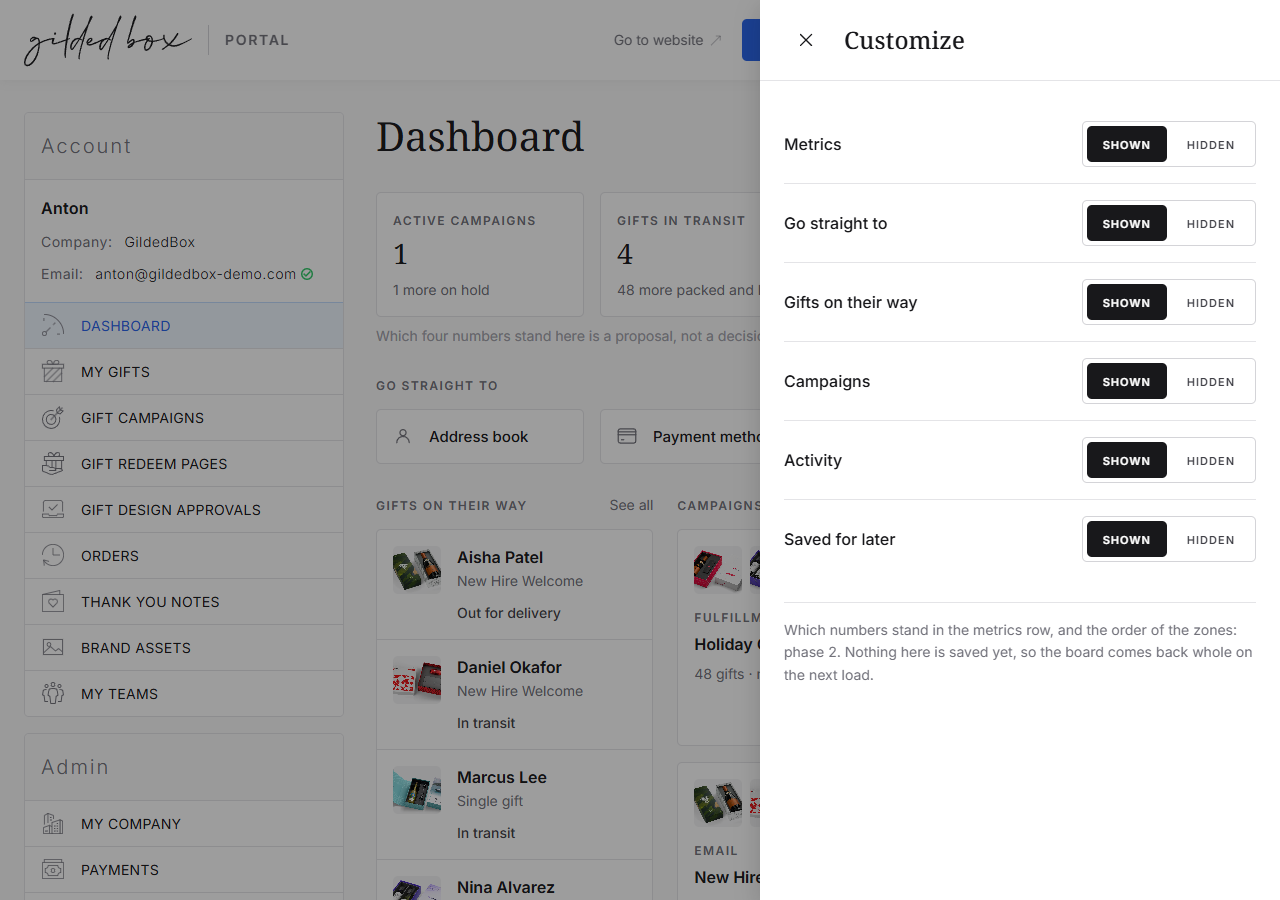
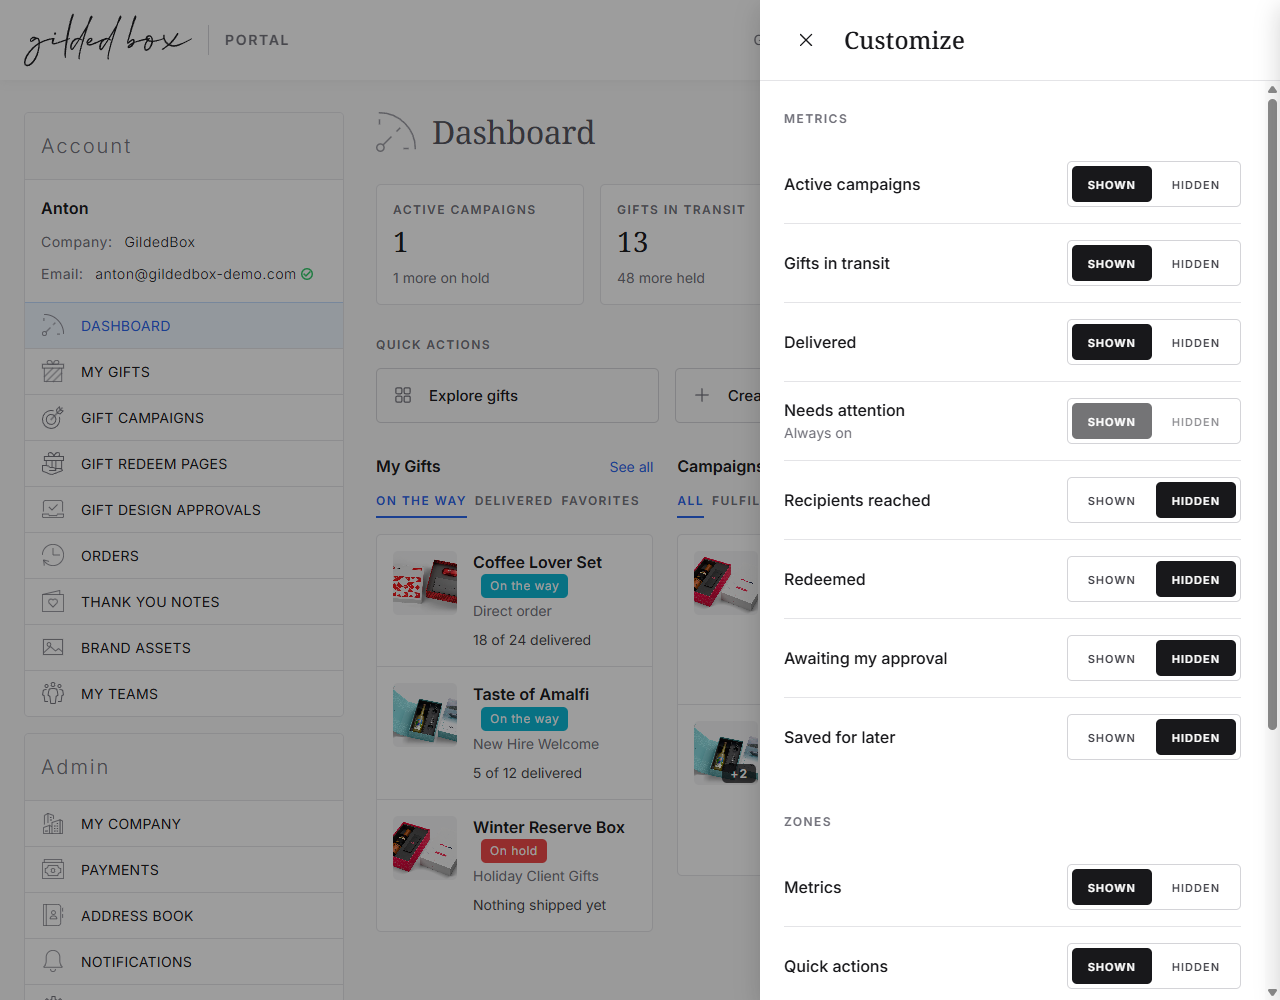
feat(portal): the metrics become a set you choose, and every switch on the page is finally visible
THE DEAD SWITCHES, AND THE ONE ROOT. Ton clicked the Customize
toggles and the tabs on the live build and nothing moved. Two causes,
both of the same family:

  [hidden] LOSES TO A display RULE, and it had bitten four times on
  this page: the bell's badge, the tab panels, the campaign rows and
  the feed events. Every one of them was hidden in the DOM and drawn
  on the screen, because the UA sheet's [hidden]{display:none} loses
  to any author rule of equal specificity, and every row here has
  one. The page now states it once, under its own roots, with the
  !important the UA sheet cannot carry.

  AND reflow() UNDID THE PERSON. It re-decides which columns exist by
  counting their rows; it ran when the fade finished, found the rows
  still in place and turned the column back on. A zone switched off
  by hand is marked at the moment of the switch, not after it, and
  reflow leaves that one alone.

THE LEAVING IS SEEN: a zone or a tile fades over --mo-small-out and
then leaves the layout, so the board re-splitting under an open
drawer is caught by the eye. Coming back is instant. The drawer is
520 on the right and the board stays visible beside it at 1280.

THE METRICS ARE A SET. The Customize drawer opens with a catalogue:
the four that stand today and four candidates out of the same demo
data, and turning one on puts its tile in the position the catalogue
gives it. Needs attention cannot be switched off, and the drawer says
[…]

diff --git a/live/portal-dashboard.html b/live/portal-dashboard.html
@@ -311,6 +311,19 @@ a.gbppd-more:hover, body.gb-demo a.gbppd-more:hover { color: var(--blue-700); te
 
    The tiles are doors all the same (each opens the drawer with the
    things it counted), so they keep the card's own hover. */
+/* FOUR POSITIONS, AND THE ROW WRAPS INTO MORE OF THEM. The metrics
+   are a SET now (Ton, 10.09): the catalogue in the Customize drawer
+   decides which tiles exist, and the row lays out whatever it is
+   given. Four fixed tracks rather than auto-fit on purpose: auto-fit
+   collapses the empty tracks, so a set of two would stretch each
+   tile across half the board and a number would look like a banner.
+   With fixed tracks two tiles stay tile-sized and six wrap into a
+   second row of the same width. Measured at 1280 and 360.
+
+   PLACEMENT IS AUTOMATIC: the order of the row is the order of the
+   catalogue, which is the order of the DOM. Dragging a tile by hand
+   is phase 2 and is not built, not drawn, and not mentioned on the
+   canvas or in the drawer. */
 .gbppd-stats {
   display: grid;
   gap: var(--space-16);
@@ -584,12 +597,30 @@ a.gbppd-door, body.gb-demo a.gbppd-door { color: var(--zinc-900); }
 .gbppd-tab[aria-selected="true"] { color: var(--blue-600); border-bottom-color: var(--blue-600); }
 
 .gbppd-rows { display: grid; }
-/* [hidden] LOSES TO A display RULE (the same trap the bell's badge
-   fell into, ловушка of this page's own head comment). A tab panel is
-   hidden by the attribute, and a display:grid on the same element
-   outranks the UA sheet, so all three panes stood open at once until
-   this line. Caught by looking at the frame, not by the console. */
-.gbppd-rows[hidden] { display: none; }
+/* [hidden] LOSES TO A display RULE, AND IT HAS NOW BITTEN FOUR TIMES
+   ON ONE PAGE: the bell's badge (display:grid), the tab panels
+   (display:grid), the campaign rows and the feed events of the
+   filters (display:grid again). Every one of them was «hidden» in
+   the DOM and visible on the screen, because the UA sheet's
+   [hidden]{display:none} loses to any author rule of the same
+   specificity — and every row and panel on this page has one.
+
+   So the page states it once, for everything under its own roots,
+   and with the !important the UA sheet cannot carry. Anything this
+   page hides is hidden, whatever display it was given. */
+.gbppd-page [hidden],
+.gbd-panel [hidden] { display: none !important; }
+
+/* AND THE LEAVING IS SEEN (Ton, 10.09: a toggle that changes nothing
+   visible is a broken toggle). A zone or a tile switched off fades
+   out over --mo-small-out and then leaves the layout, so the board
+   re-splitting under the open drawer is something the eye catches
+   rather than something it discovers later. Coming back is instant:
+   the thing you asked for does not keep you waiting. */
+.gbppd-col,
+.gbppd-stat,
+[data-gbppd-widget] { transition: opacity var(--mo-small-out) var(--mo-move); }
+.is-leaving { opacity: 0; }
 /* A favourite in the column is a ROW like everything else in this
    zone: the same thumb, the same two lines. The picture shelf that
    used to stand at the foot of the page went in here with it, and
@@ -1298,6 +1329,10 @@ a.gbppd-empty__door, body.gb-demo a.gbppd-empty__door { color: var(--zinc-900); 
 }
 .gbppd-cz__row:first-child { border-top: 0; }
 .gbppd-cz__name { font-size: 16px; font-weight: 500; line-height: 1.4; color: var(--zinc-900); }
+/* The caption of a row that cannot be switched: a rule for the person,
+   said in their language, under the name it belongs to. */
+.gbppd-cz__note { display: block; font-size: 14px; font-weight: 400; line-height: 1.5; color: var(--zinc-500); }
+.gbppd-cz__group { margin-top: var(--space-32); }
 .gbppd-cz__foot {
   margin-top: var(--space-24);
   padding-top: var(--space-16);
@@ -1515,6 +1550,37 @@ a.gbppd-empty__door, body.gb-demo a.gbppd-empty__door { color: var(--zinc-900); 
             <span class="gb-eyebrow">Needs attention</span>
             <span class="gbppd-stat__num">2</span>
             <span class="gbppd-stat__sub">Both on one campaign</span>
+          </button>
+
+          <!-- THE CANDIDATES, off until someone turns them on in the
+               Customize drawer. Their numbers come out of the same
+               demo the board is built from: 84 recipients is 24 + 12
+               + 48 across the three live orders, 12 redeemed is all
+               of New Hire Welcome, the approval is the logo proof on
+               Winter Reserve Box, and 4 is what stands in the
+               Favorites tab. -->
+          <button class="gbppd-card gbppd-stat" type="button" data-gbppd-metric="reached" hidden>
+            <span class="gb-eyebrow">Recipients reached</span>
+            <span class="gbppd-stat__num">84</span>
+            <span class="gbppd-stat__sub">Across every open order</span>
+          </button>
+
+          <button class="gbppd-card gbppd-stat" type="button" data-gbppd-metric="redeemed" hidden>
+            <span class="gb-eyebrow">Redeemed</span>
+            <span class="gbppd-stat__num">12</span>
+            <span class="gbppd-stat__sub">All of New Hire Welcome</span>
+          </button>
+
+          <button class="gbppd-card gbppd-stat" type="button" data-gbppd-metric="approval" hidden>
+            <span class="gb-eyebrow">Awaiting my approval</span>
+            <span class="gbppd-stat__num">1</span>
+            <span class="gbppd-stat__sub">A logo proof</span>
+          </button>
+
+          <button class="gbppd-card gbppd-stat" type="button" data-gbppd-metric="saved" hidden>
+            <span class="gb-eyebrow">Saved for later</span>
+            <span class="gbppd-stat__num">4</span>
+            <span class="gbppd-stat__sub">In My Gifts</span>
           </button>
 
         </div>
@@ -2071,32 +2137,98 @@ a.gbppd-empty__door, body.gb-demo a.gbppd-empty__door { color: var(--zinc-900); 
   var WIDGETS = [
     { id: 'metrics',   name: 'Metrics' },
     { id: 'actions',   name: 'Quick actions' },
-    { id: 'gifts',     name: 'Your gifts' },
+    { id: 'gifts',     name: 'My Gifts' },
     { id: 'campaigns', name: 'Campaigns' },
     { id: 'activity',  name: 'Activity' }
   ];
   var off = {};
 
+  /* THE METRICS ARE A SET (Ton, 10.09). The catalogue is the order of
+     the row: turning one on puts its tile in the position the
+     catalogue gives it, because the row lays out the DOM and the DOM
+     is this list. Dragging a tile into another place is phase 2, and
+     it is said here and nowhere else.
+
+     NEEDS ATTENTION CANNOT BE SWITCHED OFF, and the drawer says so in
+     the person's own language rather than in ours: a dashboard whose
+     alarm can be muted is a dashboard that will one day be quiet
+     while a campaign is stopped. That is a rule for the user, so it
+     is a caption on the row, not a note about the prototype. */
+  var METRIC_SET = [
+    { id: 'campaigns', name: 'Active campaigns', on: true },
+    { id: 'transit',   name: 'Gifts in transit', on: true },
+    { id: 'delivered', name: 'Delivered',        on: true },
+    { id: 'attention', name: 'Needs attention',  on: true, locked: 'Always on' },
+    { id: 'reached',   name: 'Recipients reached', on: false },
+    { id: 'redeemed',  name: 'Redeemed',           on: false },
+    { id: 'approval',  name: 'Awaiting my approval', on: false },
+    { id: 'saved',     name: 'Saved for later',     on: false }
+  ];
+  var metricOn = {};
+  METRIC_SET.forEach(function (m) { metricOn[m.id] = m.on; });
+
+  function applyMetric(id) {
+    reveal(document.querySelector('[data-gbppd-metric="' + id + '"]'), !!metricOn[id]);
+  }
+
+  /* SHOW AND HIDE, VISIBLY. Off fades first and leaves the layout when
+     the fade is done; on comes back at once. One helper for zones,
+     tiles and anything else this page switches. */
+  function reveal(el, on) {
+    if (!el) return;
+    if (on) {
+      el.hidden = false;
+      el.classList.remove('is-leaving');
+      return;
+    }
+    if (el.hidden) return;
+    el.classList.add('is-leaving');
+    window.setTimeout(function () {
+      if (el.classList.contains('is-leaving')) { el.hidden = true; el.classList.remove('is-leaving'); }
+      if (typeof window.__gbppdReflow === 'function') window.__gbppdReflow();
+    }, 90);                                   /* --mo-small-out, read as a number because setTimeout cannot read a token */
+  }
+
   function apply(id) {
     var zone = document.querySelector('[data-gbppd-widget="' + id + '"]');
-    if (zone) zone.hidden = !!off[id];
+    if (!zone) return;
+    /* THE SWITCH IS MARKED BEFORE THE FADE, and this is the bug Ton
+       clicked: reflow() re-decides which columns exist by counting
+       their rows, it ran when the fade finished, it found the rows
+       still there and turned the column back on. The mark says «a
+       person switched this off» and reflow leaves it alone. It has
+       to be set here, not from the toggle event, because at event
+       time the element is still visible. */
+    zone.setAttribute('data-gbppd-off', off[id] ? '1' : '0');
+    reveal(zone, !off[id]);
+  }
+
+  function switchRow(key, id, name, on, note, locked) {
+    return '<div class="gbppd-cz__row">' +
+           '<span class="gbppd-cz__name">' + name +
+           (note ? '<span class="gbppd-cz__note">' + note + '</span>' : '') + '</span>' +
+           '<div class="gb-toggle gb-toggle--small" role="radiogroup"' +
+           ' ' + key + '="' + id + '" aria-label="' + name + ' on the dashboard">' +
+           '<button class="gb-toggle__item' + (on ? ' is-on' : '') + '" type="button" role="radio"' +
+           (locked ? ' disabled' : '') +
+           ' data-value="on" aria-checked="' + (on ? 'true' : 'false') + '">Shown</button>' +
+           '<button class="gb-toggle__item' + (on ? '' : ' is-on') + '" type="button" role="radio"' +
+           (locked ? ' disabled' : '') +
+           ' data-value="off" aria-checked="' + (on ? 'false' : 'true') + '">Hidden</button>' +
+           '</div></div>';
   }
 
   function czBody() {
-    var html = '';
-    WIDGETS.forEach(function (w) {
-      var on = !off[w.id];
-      html += '<div class="gbppd-cz__row">' +
-              '<span class="gbppd-cz__name">' + w.name + '</span>' +
-              '<div class="gb-toggle gb-toggle--small" role="radiogroup"' +
-              ' data-gbppd-cz="' + w.id + '" aria-label="' + w.name + ' on the dashboard">' +
-              '<button class="gb-toggle__item' + (on ? ' is-on' : '') + '" type="button" role="radio"' +
-              ' data-value="on" aria-checked="' + (on ? 'true' : 'false') + '">Shown</button>' +
-              '<button class="gb-toggle__item' + (on ? '' : ' is-on') + '" type="button" role="radio"' +
-              ' data-value="off" aria-checked="' + (on ? 'false' : 'true') + '">Hidden</button>' +
-              '</div></div>';
+    var html = '<span class="gb-eyebrow">Metrics</span><div style="margin-top: var(--space-16)">';
+    METRIC_SET.forEach(function (m) {
+      html += switchRow('data-gbppd-mz', m.id, m.name, !!metricOn[m.id], m.locked || '', !!m.locked);
     });
-    html += '<p class="gbppd-cz__foot">Which numbers stand in the metrics row, and the order of the zones: phase 2. Nothing here is saved yet, so the board comes back whole on the next load.</p>';
+    html += '</div><div class="gbppd-cz__group"><span class="gb-eyebrow">Zones</span><div style="margin-top: var(--space-16)">';
+    WIDGETS.forEach(function (w) {
+      html += switchRow('data-gbppd-cz', w.id, w.name, !off[w.id], '', false);
+    });
+    html += '</div></div>';
+    html += '<p class="gbppd-cz__foot">Nothing here is saved yet, so the board comes back whole on the next load.</p>';
     return html;
   }
 
@@ -2319,6 +2451,32 @@ a.gbppd-empty__door, body.gb-demo a.gbppd-empty__door { color: var(--zinc-900); 
       ],
       door: 'View all gifts'
     },
+    reached: {
+      title: 'Recipients reached',
+      say: 'Everyone an open order is addressed to, campaigns and direct orders together.',
+      rows: [ { what: '48 people', who: 'Holiday Client Gifts', state: 'On hold', tone: 'error' },
+              { what: '24 people', who: 'Coffee Lover Set, direct order', state: 'On the way', tone: 'info' },
+              { what: '12 people', who: 'New Hire Welcome', state: 'Delivering', tone: 'info' } ],
+      door: 'View all gifts'
+    },
+    redeemed: {
+      title: 'Redeemed',
+      say: 'Recipients who chose their gift and gave an address this month.',
+      rows: [ { what: '12 of 12', who: 'New Hire Welcome, 3 gift options', state: 'Complete', tone: 'success' } ],
+      door: 'View all campaigns'
+    },
+    approval: {
+      title: 'Awaiting my approval',
+      say: 'Proofs the studio has sent and nobody has answered yet.',
+      rows: [ { what: 'Logo proof', who: 'Winter Reserve Box, sent 8 September', state: 'Waiting', tone: 'warning' } ],
+      door: 'Open Gift Design Approvals'
+    },
+    saved: {
+      title: 'Saved for later',
+      say: 'What you kept from the catalogue. They live in the Favorites tab of My Gifts.',
+      rows: [ { what: '4 gifts', who: 'Caymus, Amalfi, Beats, Stags\' Leap', state: 'Saved', tone: 'quiet' } ],
+      door: 'Open the catalog'
+    },
     attention: {
       title: 'Needs your action',
       say: 'Both of them belong to the same campaign, and the second will stop it again the moment the first clears.',
@@ -2402,11 +2560,21 @@ a.gbppd-empty__door, body.gb-demo a.gbppd-empty__door { color: var(--zinc-900); 
 
   /* The organism publishes gbtg:change on the group. */
   document.addEventListener('gbtg:change', function (e) {
-    var g = e.target && e.target.closest ? e.target.closest('[data-gbppd-cz]') : null;
-    if (!g) return;
-    var id = g.getAttribute('data-gbppd-cz');
-    off[id] = (e.detail && e.detail.value) === 'off';
-    apply(id);
+    var t = e.target && e.target.closest ? e.target : null;
+    if (!t) return;
+    var zone = t.closest('[data-gbppd-cz]');
+    if (zone) {
+      var id = zone.getAttribute('data-gbppd-cz');
+      off[id] = (e.detail && e.detail.value) === 'off';
+      apply(id);
+      return;
+    }
+    var tile = t.closest('[data-gbppd-mz]');
+    if (tile) {
+      var mid = tile.getAttribute('data-gbppd-mz');
+      metricOn[mid] = (e.detail && e.detail.value) !== 'off';
+      applyMetric(mid);
+    }
   });
 
   /* One row in the console, in the studio's own words. */
@@ -2466,13 +2634,6 @@ a.gbppd-empty__door, body.gb-demo a.gbppd-empty__door { color: var(--zinc-900); 
   setCamps(camps);
   tellEmpty();
   reflow();
-  /* The Customize drawer marks a zone off by hand; reflow must not
-     bring it back. */
-  document.addEventListener('gbtg:change', function () {
-    [].forEach.call(document.querySelectorAll('.gbppd-col'), function (c) {
-      c.setAttribute('data-gbppd-off', c.hidden ? '1' : '0');
-    });
-  });
 
   bell.addEventListener('click', function () {
     var drawer = document.querySelector('gb-drawer');
